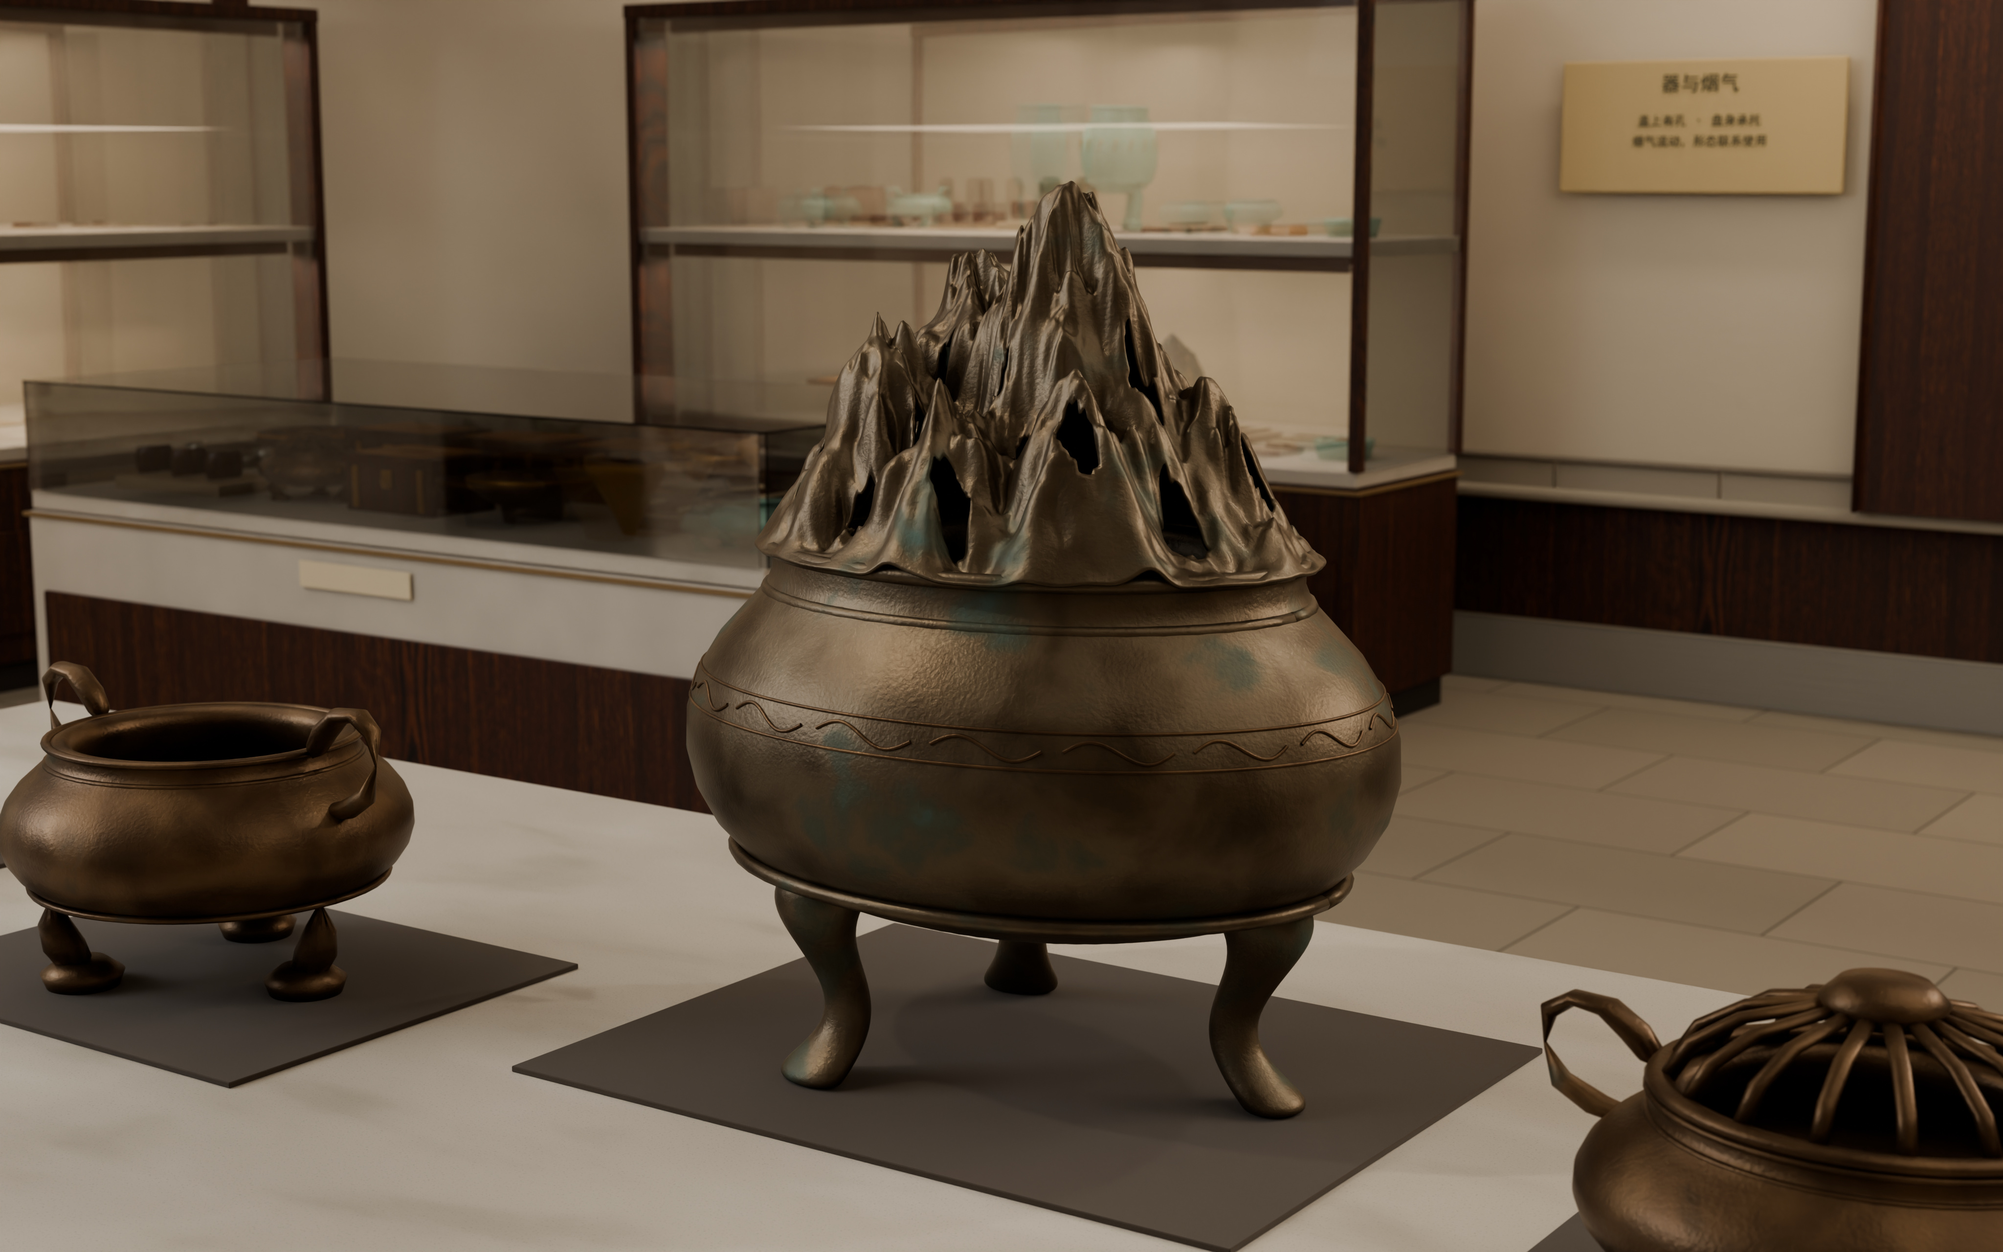
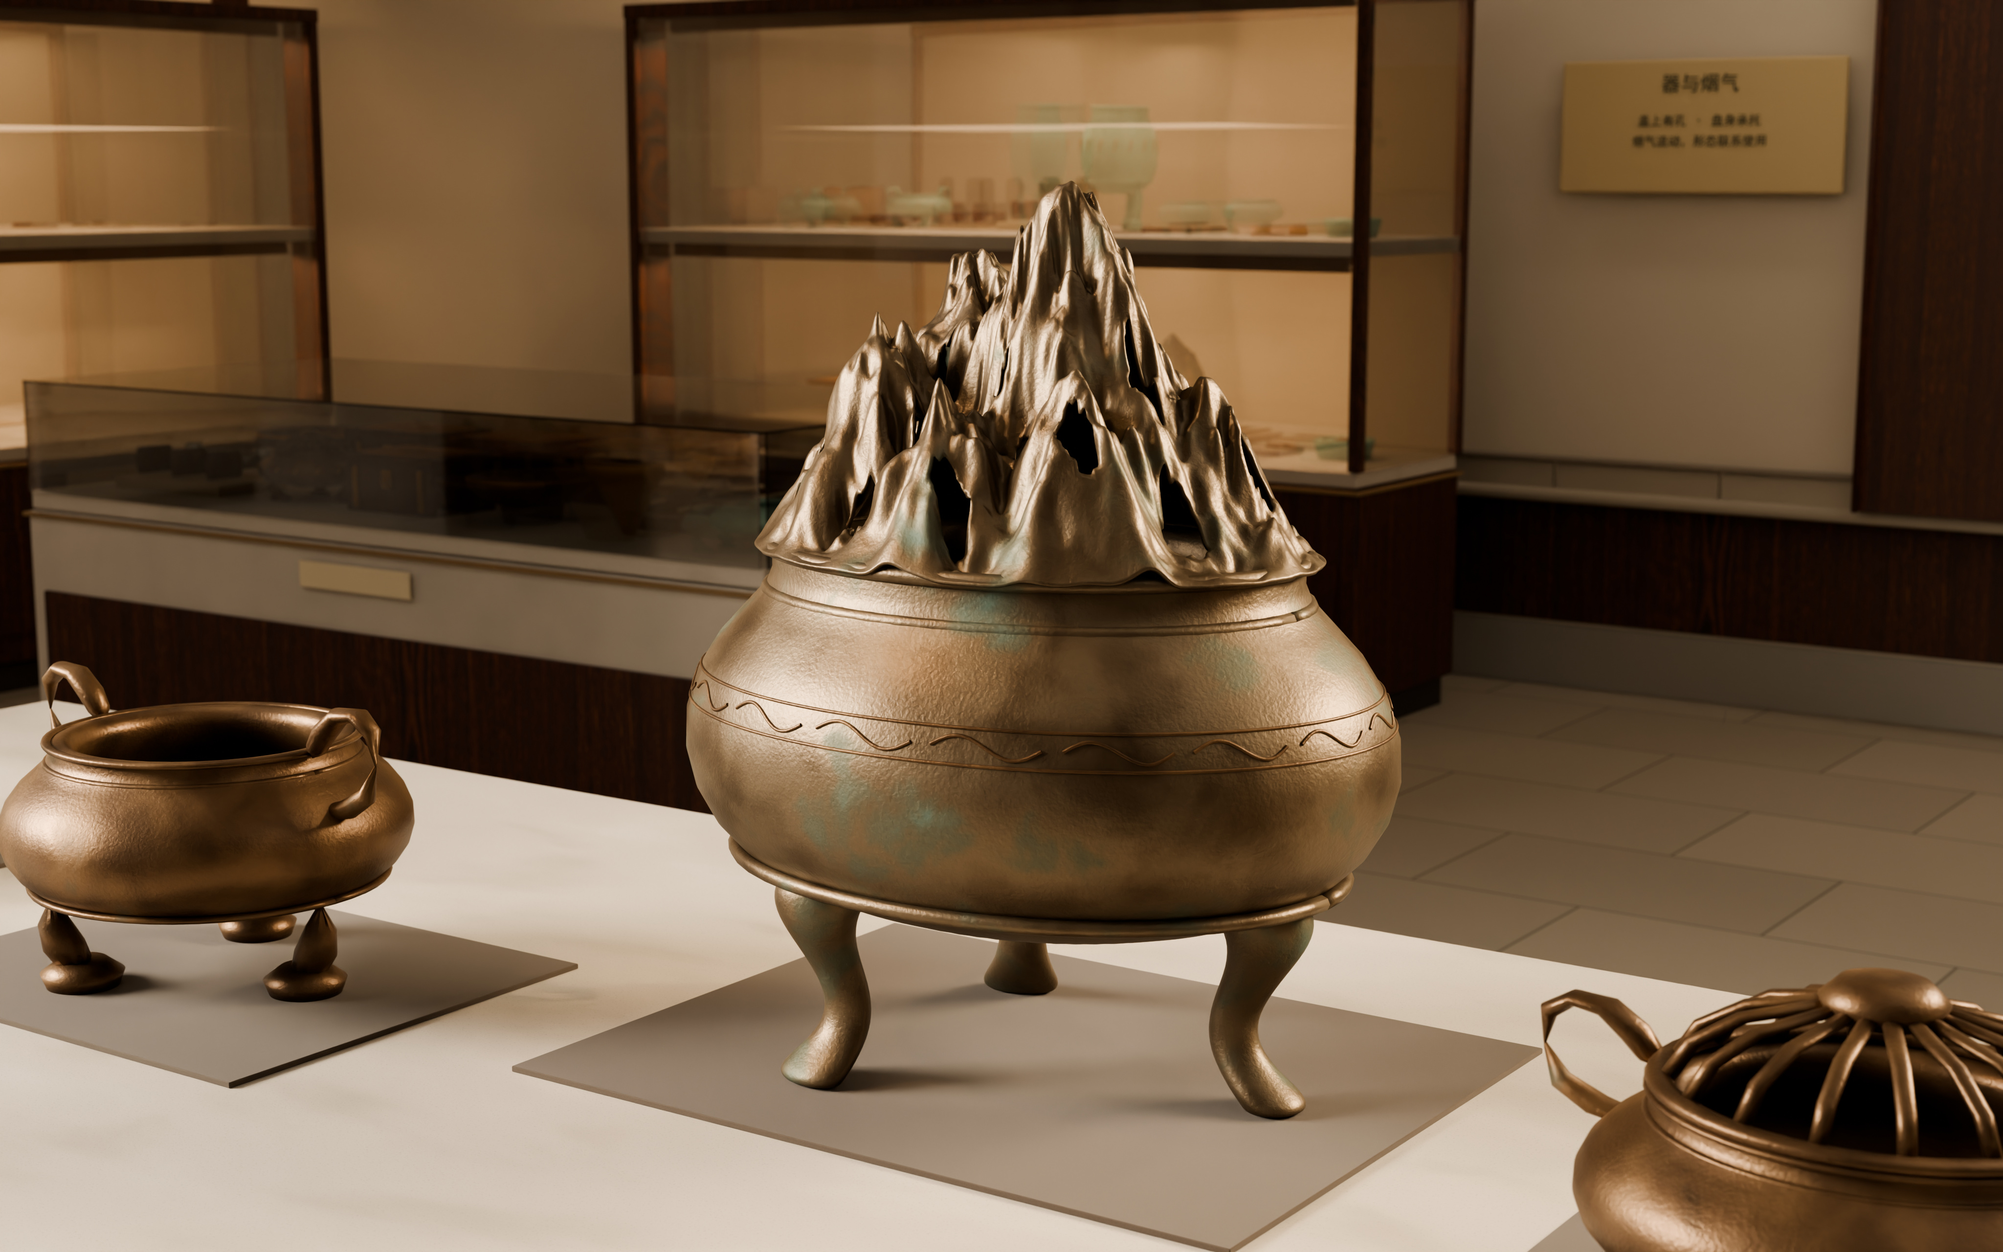
Publish the courtyard daylight and grouped pendant studies

diff --git a/interior/review.html b/interior/review.html
@@ -2,7 +2,7 @@
 <html lang="zh-CN">
 <head>
 <meta charset="utf-8"><meta name="viewport" content="width=device-width,initial-scale=1">
-<meta name="theme-color" content="#f5f1e9"><title>展品暖光与香槟金灯具 · 莞香入庭</title>
+<meta name="theme-color" content="#f5f1e9"><title>庭院天光与两厅吊灯 · 莞香入庭</title>
 <style>
 :root{color-scheme:light;--paper:#f5f1e9;--ink:#302c25;--muted:#625c51;--rule:#cec6b8;--accent:#513d2e;--serif:"Songti SC","SimSun","Noto Serif CJK SC",serif}
 *{box-sizing:border-box}body{margin:0;font:16px/1.5 "Microsoft YaHei","PingFang SC",system-ui,sans-serif;background:var(--paper);color:var(--ink)}a{color:inherit;text-underline-offset:.24em}a:focus-visible,button:focus-visible{outline:3px solid #986434;outline-offset:3px}header,main{width:min(1720px,100%);margin:auto;padding-inline:clamp(16px,3.8vw,70px)}header{display:flex;justify-content:space-between;gap:12px;align-items:center;padding-block:17px;border-bottom:1px solid var(--rule)}.brand{font:600 clamp(21px,2.3vw,28px)/1.2 var(--serif);letter-spacing:.12em}header a{font-size:14px}main{padding-bottom:50px}.heading{padding-block:clamp(24px,3vw,48px) 20px}.heading p,p{color:var(--muted);margin:7px 0 0;font-size:clamp(14px,1.1vw,17px)}h1,h2,h3{margin:0;line-height:1.25}h1{font:600 clamp(33px,3.5vw,58px)/1.2 var(--serif);letter-spacing:.04em}h2{font:600 clamp(23px,2.2vw,35px)/1.3 var(--serif)}h3{font-size:17px;font-weight:600}.room{padding:20px 0 32px;border-top:1px solid var(--rule)}.roomhead{display:flex;align-items:baseline;gap:17px;margin-bottom:14px}.roomhead p{margin:0}.pair{display:grid;grid-template-columns:1fr 1fr;gap:clamp(12px,1.3vw,24px)}figure{margin:0;min-width:0}.art{display:block;background:#e6dfd3;border-radius:2px;overflow:hidden}.art img{display:block;width:100%;height:auto;aspect-ratio:8/5}.caption{display:flex;justify-content:space-between;align-items:start;gap:12px;padding-top:11px}.caption p{font-size:14px}.switch{display:inline-flex;border:1px solid #aaa08f;border-radius:3px;white-space:nowrap;overflow:hidden;flex-shrink:0}.switch button{font:inherit;font-size:13px;color:var(--accent);padding:6px 10px;min-height:34px;background:transparent;border:0;cursor:pointer}.switch button[aria-pressed="true"]{background:#453e33;color:white}.lamp-zoom{font-size:13px}.original{font-size:13px;white-space:nowrap;line-height:2}.art:focus-visible{outline-offset:2px}.sr{position:absolute;clip-path:inset(50%);height:1px;width:1px;overflow:hidden}
@@ -11,27 +11,27 @@
 </style>
 </head>
 <body><header><span class="brand">莞香入庭</span><a href="./">现有三维环视</a></header>
-<main><div class="heading"><h1>展品暖光与香槟金灯具</h1><p>每张均可与上版同机位比较，点开可查看 4096 × 2560 原图。两张全景下方另附灯具细节。</p></div>
+<main><div class="heading"><h1>庭院天光与两厅吊灯</h1><p>每张均可与上版同机位比较，点开可查看 4096 × 2560 原图。两张全景下方另附灯具细节。</p></div>
 <section class="room"><div class="roomhead"><h2>品香主厅</h2></div><div class="pair"><figure data-view="main-wide">
-              <a class="art" href="proof/main-wide.jpg?v=r132" aria-label="查看主展墙与中央展台原图"><img src="proof/main-wide-preview.webp?v=r132" width="1280" height="800" alt="品香主厅，主展墙与中央展台" data-current="proof/main-wide-preview.webp?v=r132" data-large="proof/main-wide.jpg?v=r132" data-prior="proof/base-main-wide.jpg?v=r132" data-currentalt="品香主厅，主展墙与中央展台" data-prioralt="品香主厅，主展墙与中央展台（上版）"></a>
-              <figcaption class="caption"><div><h3>主展墙与中央展台</h3><p data-note data-current="两盏压纹玻璃壁灯分列展墙两侧。" data-prior="上版的主展墙与中央展台。">两盏压纹玻璃壁灯分列展墙两侧。</p>
-              <a class="original" href="proof/main-wide.jpg?v=r132">查看原图</a>　<a class="lamp-zoom" href="proof/wall-lamp.jpg?v=r132">放大壁灯</a></div>
-              <div class="switch" role="group" aria-label="主展墙与中央展台同机位比较"><button type="button" data-which="current" aria-pressed="true">本次</button><button type="button" data-which="prior" aria-pressed="false">上版</button></div></figcaption>
+              <a class="art" href="proof/main-wide.jpg?v=r133" aria-label="查看主展墙与两侧展柜原图"><img src="proof/main-wide-preview.webp?v=r133" width="1280" height="800" alt="品香主厅，主展墙与两侧展柜" data-current="proof/main-wide-preview.webp?v=r133" data-large="proof/main-wide.jpg?v=r133" data-prior="proof/base-main-wide.jpg?v=r133" data-currentalt="品香主厅，主展墙与两侧展柜" data-prioralt="品香主厅，主展墙与两侧展柜（上版）"></a>
+              <figcaption class="caption"><div><h3>主展墙与两侧展柜</h3><p data-note data-current="两盏短吊灯落在柜前，南侧庭院窗的天光照亮展墙。" data-prior="上版主展墙以两盏壁灯和柜内暖光照明。">两盏短吊灯落在柜前，南侧庭院窗的天光照亮展墙。</p>
+              <a class="original" href="proof/main-wide.jpg?v=r133">查看原图</a>　<a class="lamp-zoom" href="proof/cabinet-pendant.jpg?v=r133">看展柜短吊灯</a></div>
+              <div class="switch" role="group" aria-label="主展墙与两侧展柜同机位比较"><button type="button" data-which="current" aria-pressed="true">本次</button><button type="button" data-which="prior" aria-pressed="false">上版</button></div></figcaption>
               </figure><figure data-view="main-detail">
-              <a class="art" href="proof/main-detail.jpg?v=r132" aria-label="查看山形熏炉原图"><img src="proof/main-detail-preview.webp?v=r132" width="1280" height="800" alt="品香主厅，山形熏炉" data-current="proof/main-detail-preview.webp?v=r132" data-large="proof/main-detail.jpg?v=r132" data-prior="proof/base-main-detail.jpg?v=r132" data-currentalt="品香主厅，山形熏炉" data-prioralt="品香主厅，山形熏炉（上版）"></a>
-              <figcaption class="caption"><div><h3>山形熏炉</h3><p data-note data-current="暖光掠过山脊和透烟孔，铜面的亮暗随起伏变化。" data-prior="上版铜炉表面的色温与反射。">暖光掠过山脊和透烟孔，铜面的亮暗随起伏变化。</p>
-              <a class="original" href="proof/main-detail.jpg?v=r132">查看原图</a></div>
+              <a class="art" href="proof/main-detail.jpg?v=r133" aria-label="查看山形熏炉原图"><img src="proof/main-detail-preview.webp?v=r133" width="1280" height="800" alt="品香主厅，山形熏炉" data-current="proof/main-detail-preview.webp?v=r133" data-large="proof/main-detail.jpg?v=r133" data-prior="proof/base-main-detail.jpg?v=r133" data-currentalt="品香主厅，山形熏炉" data-prioralt="品香主厅，山形熏炉（上版）"></a>
+              <figcaption class="caption"><div><h3>山形熏炉</h3><p data-note data-current="窗光勾出铜炉的肩线，展灯的暖色留在山脊与透烟孔边缘。" data-prior="上版暖光下的山形炉盖与铜身。">窗光勾出铜炉的肩线，展灯的暖色留在山脊与透烟孔边缘。</p>
+              <a class="original" href="proof/main-detail.jpg?v=r133">查看原图</a></div>
               <div class="switch" role="group" aria-label="山形熏炉同机位比较"><button type="button" data-which="current" aria-pressed="true">本次</button><button type="button" data-which="prior" aria-pressed="false">上版</button></div></figcaption>
               </figure></div></section>
 <section class="room"><div class="roomhead"><h2>传香工坊</h2></div><div class="pair"><figure data-view="workshop-wide">
-              <a class="art" href="proof/workshop-wide.jpg?v=r132" aria-label="查看手作桌与方灯原图"><img src="proof/workshop-wide-preview.webp?v=r132" width="1280" height="800" alt="传香工坊，手作桌与方灯" data-current="proof/workshop-wide-preview.webp?v=r132" data-large="proof/workshop-wide.jpg?v=r132" data-prior="proof/base-workshop-wide.jpg?v=r132" data-currentalt="传香工坊，手作桌与方灯" data-prioralt="传香工坊，手作桌与方灯（上版）"></a>
-              <figcaption class="caption"><div><h3>手作桌与方灯</h3><p data-note data-current="细金属框围合双层灯罩，灯下是原有的操作桌。" data-prior="上版的单层方灯与操作桌。">细金属框围合双层灯罩，灯下是原有的操作桌。</p>
-              <a class="original" href="proof/workshop-wide.jpg?v=r132">查看原图</a>　<a class="lamp-zoom" href="proof/pendant.jpg?v=r132">放大方灯</a></div>
-              <div class="switch" role="group" aria-label="手作桌与方灯同机位比较"><button type="button" data-which="current" aria-pressed="true">本次</button><button type="button" data-which="prior" aria-pressed="false">上版</button></div></figcaption>
+              <a class="art" href="proof/workshop-wide.jpg?v=r133" aria-label="查看长桌与三盏方灯原图"><img src="proof/workshop-wide-preview.webp?v=r133" width="1280" height="800" alt="传香工坊，长桌与三盏方灯" data-current="proof/workshop-wide-preview.webp?v=r133" data-large="proof/workshop-wide.jpg?v=r133" data-prior="proof/base-workshop-wide.jpg?v=r133" data-currentalt="传香工坊，长桌与三盏方灯" data-prioralt="传香工坊，长桌与三盏方灯（上版）"></a>
+              <figcaption class="caption"><div><h3>长桌与三盏方灯</h3><p data-note data-current="中央方灯略低，两端小方灯与桌面上的操作位对齐。" data-prior="上版操作桌上方有一盏双层方灯。">中央方灯略低，两端小方灯与桌面上的操作位对齐。</p>
+              <a class="original" href="proof/workshop-wide.jpg?v=r133">查看原图</a>　<a class="lamp-zoom" href="proof/workshop-trio.jpg?v=r133">看三盏方灯</a></div>
+              <div class="switch" role="group" aria-label="长桌与三盏方灯同机位比较"><button type="button" data-which="current" aria-pressed="true">本次</button><button type="button" data-which="prior" aria-pressed="false">上版</button></div></figcaption>
               </figure><figure data-view="workshop-detail">
-              <a class="art" href="proof/workshop-detail.jpg?v=r132" aria-label="查看工序工具柜原图"><img src="proof/workshop-detail-preview.webp?v=r132" width="1280" height="800" alt="传香工坊，工序工具柜" data-current="proof/workshop-detail-preview.webp?v=r132" data-large="proof/workshop-detail.jpg?v=r132" data-prior="proof/base-workshop-detail.jpg?v=r132" data-currentalt="传香工坊，工序工具柜" data-prioralt="传香工坊，工序工具柜（上版）"></a>
-              <figcaption class="caption"><div><h3>工序工具柜</h3><p data-note data-current="层板前沿的灯光落在香匙、篆模和木托上。" data-prior="上版工序柜的层板照明。">层板前沿的灯光落在香匙、篆模和木托上。</p>
-              <a class="original" href="proof/workshop-detail.jpg?v=r132">查看原图</a></div>
+              <a class="art" href="proof/workshop-detail.jpg?v=r133" aria-label="查看工序工具柜原图"><img src="proof/workshop-detail-preview.webp?v=r133" width="1280" height="800" alt="传香工坊，工序工具柜" data-current="proof/workshop-detail-preview.webp?v=r133" data-large="proof/workshop-detail.jpg?v=r133" data-prior="proof/base-workshop-detail.jpg?v=r133" data-currentalt="传香工坊，工序工具柜" data-prioralt="传香工坊，工序工具柜（上版）"></a>
+              <figcaption class="caption"><div><h3>工序工具柜</h3><p data-note data-current="从庭院门进入的侧光与层板暖光照在木托和铜模上。" data-prior="上版暖光下的工序柜。">从庭院门进入的侧光与层板暖光照在木托和铜模上。</p>
+              <a class="original" href="proof/workshop-detail.jpg?v=r133">查看原图</a></div>
               <div class="switch" role="group" aria-label="工序工具柜同机位比较"><button type="button" data-which="current" aria-pressed="true">本次</button><button type="button" data-which="prior" aria-pressed="false">上版</button></div></figcaption>
               </figure></div></section>
 </main>

diff --git a/index.html b/index.html
@@ -1,6 +1,6 @@
 <!doctype html><html lang="zh-CN"><meta charset="utf-8"><meta name="viewport" content="width=device-width,initial-scale=1"><title>莞香入庭 · 莞香文化展馆设计</title>
 <style>:root{color-scheme:light;--ink:#29382e;--paper:#ebe5d8;--line:#c9c4b4}*{box-sizing:border-box}body{margin:0;background:var(--paper);color:var(--ink);font-family:"Microsoft YaHei",sans-serif;line-height:1.65}header,main,footer{max-width:1320px;margin:auto;padding:28px}header{display:flex;justify-content:space-between;gap:24px;align-items:center;border-bottom:1px solid var(--line)}h1{font-family:SimSun,serif;font-size:32px;font-weight:400;margin:0}p{margin:8px 0}.eyebrow{font-size:12px;letter-spacing:.1em}nav{display:flex;flex-wrap:wrap;gap:8px}a{color:inherit}nav a,.button{display:inline-block;padding:10px 15px;border:1px solid #8c9789;text-decoration:none;border-radius:3px;background:#f7f3e9}a:focus-visible,button:focus-visible{outline:3px solid #8a6b45;outline-offset:3px}h2{font-size:21px;font-weight:500;margin:0 0 10px}section{padding:28px 0;border-bottom:1px solid var(--line)}.intro{max-width:850px}.muted{color:#667063;font-size:14px}.board{width:100%;display:block;background:#e7e1d3}.image-link{display:block}.image-link:hover{outline:1px solid #87977e}.detail{display:grid;grid-template-columns:1.25fr 1fr;gap:28px;align-items:start}.detail img{width:100%;display:block}.detail .flow{max-width:500px;margin:auto}.legend{display:flex;gap:18px;flex-wrap:wrap;font-size:14px}.legend span:before{content:"";display:inline-block;width:24px;border-top:2px dashed var(--c);margin:0 7px 4px 0}.table-wrap{overflow-x:auto}table{border-collapse:collapse;width:100%;font-size:14px}td,th{padding:8px 12px;border-bottom:1px solid var(--line);text-align:left}th{font-weight:500}.assets{display:grid;grid-template-columns:1fr 1fr;gap:20px}.asset{border:1px solid var(--line);padding:16px}.transparent{background-color:#fff;background-image:linear-gradient(45deg,#e1e3dd 25%,transparent 25%),linear-gradient(-45deg,#e1e3dd 25%,transparent 25%),linear-gradient(45deg,transparent 75%,#e1e3dd 75%),linear-gradient(-45deg,transparent 75%,#e1e3dd 75%);background-size:24px 24px;background-position:0 0,0 12px,12px -12px,-12px 0;height:210px;display:flex;align-items:center;justify-content:center}.transparent img{max-width:100%;max-height:210px;object-fit:contain}.downloads{display:flex;flex-wrap:wrap;gap:8px;margin-top:14px}footer{font-size:13px;color:#667063}button{font:inherit;padding:8px 12px;cursor:pointer;border:1px solid #8c9789;background:#f7f3e9;color:inherit}.dark .transparent{background:#343b36}@media(max-width:650px){header{display:block;padding:22px 16px}header nav{margin-top:18px}main,footer{padding:16px}h1{font-size:27px}.detail,.assets{grid-template-columns:1fr}.detail{gap:20px}nav a{font-size:14px;padding:8px 12px}section{padding:22px 0}.transparent{height:170px}.transparent img{max-height:170px}}.photographs{display:grid;grid-template-columns:1fr 1fr;gap:24px}.photographs figure{margin:0;min-width:0}.photographs figure:first-child{grid-column:1/-1}.photographs img{width:100%;height:auto;display:block}.photographs figcaption{margin:8px 0 0}.photographs strong{font-weight:500}.photographs p{font-size:14px;margin:2px 0;color:#465147}@media(max-width:650px){.photographs{grid-template-columns:1fr;gap:22px}}.rendergrid{display:grid;grid-template-columns:repeat(2,minmax(0,1fr));gap:22px;margin-top:16px}.rendergrid figure{margin:0;min-width:0}.rendergrid img{display:block;width:100%;height:auto;max-height:500px;object-fit:contain;object-position:left bottom}.rendergrid figcaption{padding:7px 0}.rendergrid h3{font-weight:500;font-size:18px;margin:0}.rendergrid span,.rendlinks a{font-size:13px}.rendlinks{display:flex;gap:15px}@media(max-width:650px){.rendergrid{grid-template-columns:1fr}}#section-study{scroll-margin:20px}#section-study h2{font:normal clamp(24px,3vw,38px)/1.3 SimSun,serif;margin:16px 0}#section-study p{line-height:1.7}.study-zoom{display:block}.study-zoom img{display:block;width:100%;height:auto}.study-controls,.study-links{display:flex;flex-wrap:wrap;gap:10px 22px;align-items:center}.study-controls button{color:#304236;background:transparent;border:1px solid #909989;padding:7px 15px;font:inherit;cursor:pointer}.study-controls button[aria-pressed=true]{color:#fff;background:#34453a;border-color:#34453a}.study-links a{color:#314b3d;text-underline-offset:3px}#section-study{scroll-margin:20px}#section-study h2{font:normal clamp(24px,3vw,38px)/1.3 SimSun,serif;margin:16px 0}#section-study p{line-height:1.7}.study-zoom{display:block}.study-zoom img{display:block;width:100%;height:auto}.study-roll{margin:20px 0 26px;background:#f8f7f1;border:1px solid #c9c4b4;padding:8px}.study-controls,.study-links{display:flex;flex-wrap:wrap;gap:10px 22px;align-items:center}.study-controls button{color:#304236;background:transparent;border:1px solid #909989;padding:7px 15px;font:inherit;cursor:pointer}.study-controls button[aria-pressed=true]{color:#fff;background:#34453a;border-color:#34453a}.study-links a{color:#314b3d;text-underline-offset:3px}</style>
-<body data-release="M140-r124"><header><div><h1>莞香入庭</h1><p>莞香文化展馆设计</p></div><nav aria-label="目录"><a href="interior/">室内三维导览</a><a href="interior/review.html">暖光与灯具审核图</a><a href="#renders">展板效果图</a><a href="#photos">已审视角</a><a href="#board">完整展板</a><a href="downloads/guanxiang-board-r124-print.pdf">展板 PDF</a><a href="#section-study">剖面线稿小样</a></nav></header><main>
+<body data-release="M140-r124"><header><div><h1>莞香入庭</h1><p>莞香文化展馆设计</p></div><nav aria-label="目录"><a href="interior/">室内三维导览</a><a href="interior/review.html">日间灯光审核图</a><a href="#renders">展板效果图</a><a href="#photos">已审视角</a><a href="#board">完整展板</a><a href="downloads/guanxiang-board-r124-print.pdf">展板 PDF</a><a href="#section-study">剖面线稿小样</a></nav></header><main>
 <section id="board"><h2>完整展板</h2>
 <p class="muted">建筑剖面线稿与远林已合入“历史文化、概念提取、室内立面与剖面”三个板块。点击展板可放大查看。</p>
 <a class="image-link" href="assets/r124-board-web.jpg"><img id="hero" class="board" src="assets/r124-board-web.jpg" alt="莞香入庭完整展板，建筑剖面线稿与远林叠入历史文化、概念提取和室内立面与剖面区域"></a>
